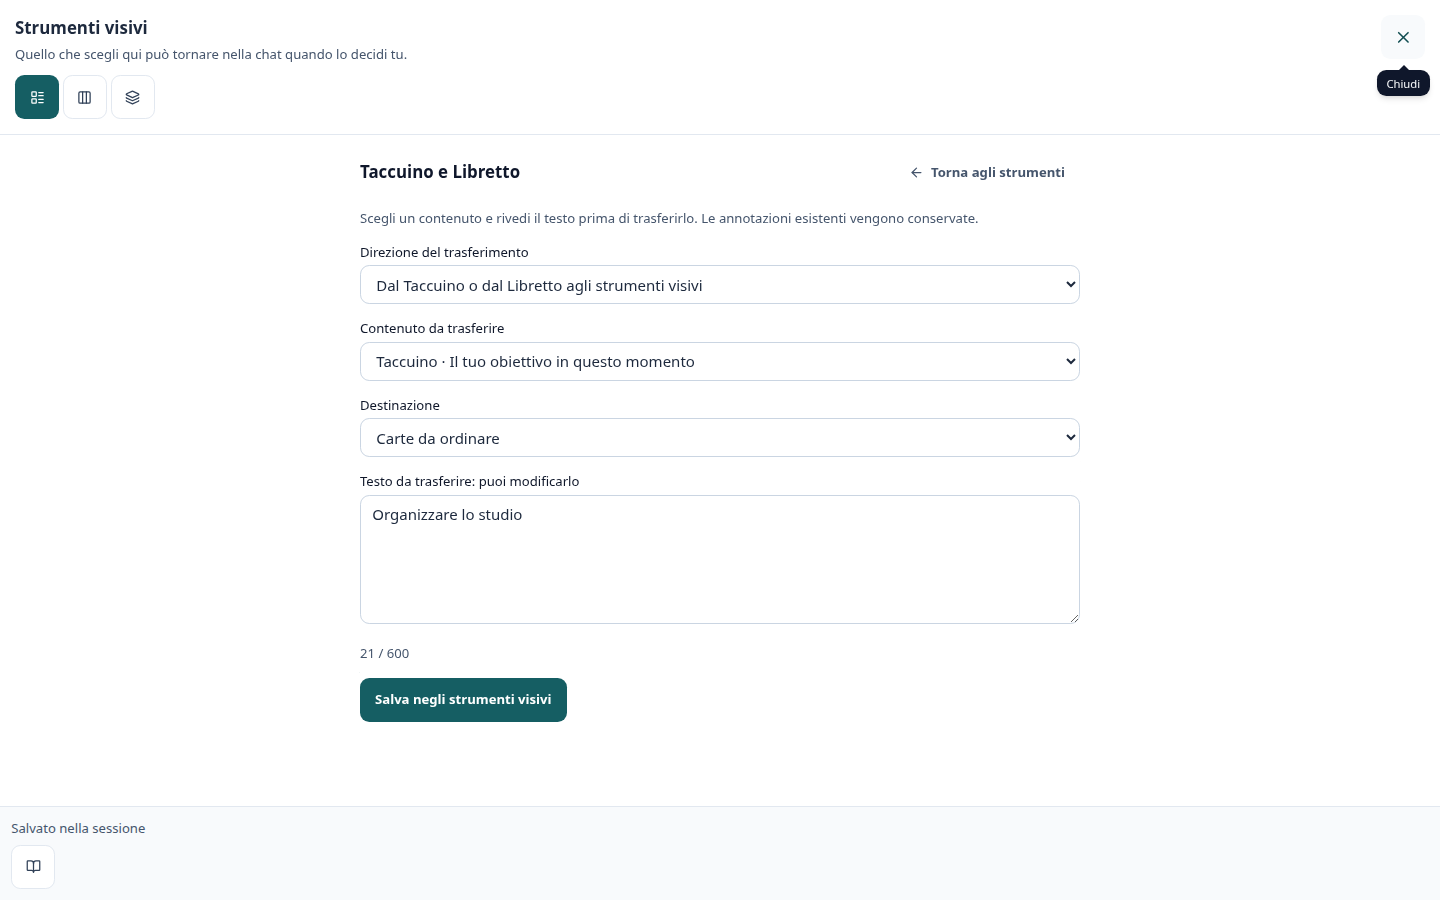
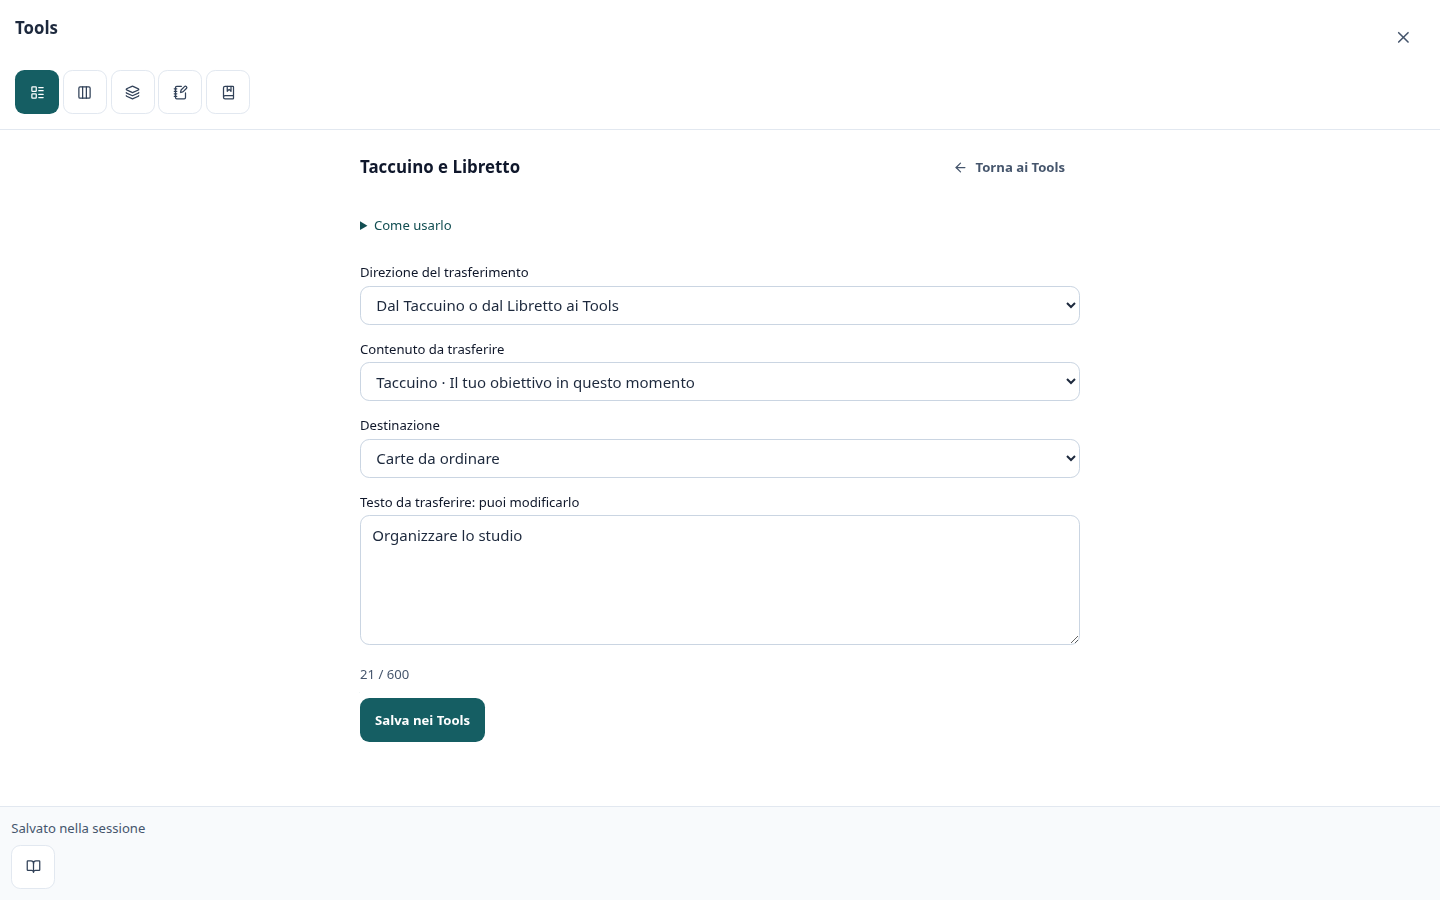
docs: align the guide with the tools window tabs
The guide still described the notebook and the booklet as a separate
overlay opened from a book icon. It now describes the five tabs of the
tools window, in all six languages, and the screenshots are recaptured.
The capture moves the pointer off the close button, which would
otherwise leave its tooltip in the shot.

diff --git a/frontend/src/lib/i18n.ts b/frontend/src/lib/i18n.ts
@@ -1139,7 +1139,7 @@ const it: Dict = {
     'guide.section9.title': 'Scheda strumento',
     'guide.section9.body': 'Ogni strumento ha una pagina di dettaglio con cosa esplora, come si svolge, i dati necessari e, quando disponibile, un link diretto per compilare il questionario online.',
     'guide.chat.tools.title': "Tools, Taccuino e Libretto",
-    'guide.chat.tools.body': "Dal menu scegli “Tools” per aprire azioni, confronto e carte. L’icona del libro apre “Taccuino e Libretto”: scegli la direzione, il contenuto e la destinazione, poi rivedi il testo e conferma. Puoi aggiungere alle annotazioni esistenti o creare una carta, un’azione o un’alternativa a partire da una nota. Il Libretto propone le schede dello strumento della sessione. Nulla viene trasferito automaticamente.",
+    'guide.chat.tools.body': "Dal menu scegli “Tools” per aprire la finestra degli strumenti: cinque schede in fila — azioni, confronto, carte, Taccuino e Libretto — e si passa dall’una all’altra senza uscire dalla conversazione. In basso l’icona del libro apre il trasferimento fra Taccuino/Libretto e Tools: scegli la direzione, il contenuto e la destinazione, poi rivedi il testo e conferma. Puoi aggiungere alle annotazioni esistenti o creare una carta, un’azione o un’alternativa a partire da una nota. Il Libretto propone le schede dello strumento della sessione. Nulla viene trasferito automaticamente.",
     'guide.chat.toolsAlt': "Trasferimento selettivo dal Taccuino ai Tools, con direzione, contenuto, destinazione e testo modificabile.",
     'guide.chat.toolsCaption': "Esempio con dati dimostrativi: un obiettivo del Taccuino può diventare una carta. Il trasferimento avviene solo dopo la conferma.",
 };
@@ -2242,7 +2242,7 @@ const en: Dict = {
     'guide.section9.title': 'Tool overview',
     'guide.section9.body': 'Every instrument has a detail page with what it explores, how it works, the required data and \u2014 when available \u2014 a direct link to complete the questionnaire online.',
     'guide.chat.tools.title': "Tools, Notebook and Booklet",
-    'guide.chat.tools.body': "Choose “Tools” in the menu to open actions, comparisons and cards. The book icon opens “Notebook and Booklet”: choose the direction, content and destination, then review the text and confirm. Add to existing annotations or turn a note into a card, action or alternative. The Booklet offers sheets for the session instrument. Nothing transfers automatically.",
+    'guide.chat.tools.body': "Choose “Tools” in the menu to open the tools window: five tabs in a row — actions, comparisons, cards, Notebook and Booklet — and you move between them without leaving the conversation. At the bottom the book icon opens the transfer between Notebook/Booklet and Tools: choose the direction, content and destination, then review the text and confirm. Add to existing annotations or turn a note into a card, action or alternative. The Booklet offers sheets for the session instrument. Nothing transfers automatically.",
     'guide.chat.toolsAlt': "Selective transfer from the Notebook to Tools, with direction, content, destination and editable text.",
     'guide.chat.toolsCaption': "Example with demonstration data: a Notebook goal can become a card. Transfer happens only after confirmation.",
 };
@@ -3344,7 +3344,7 @@ const es: Dict = {
     'guide.section9.title': 'Ficha del instrumento',
     'guide.section9.body': 'Cada instrumento tiene una p\u00e1gina de detalle con qu\u00e9 explora, c\u00f3mo se desarrolla, los datos necesarios y, cuando est\u00e1 disponible, un enlace directo para completar el cuestionario en l\u00ednea.',
     'guide.chat.tools.title': "Tools, Cuaderno y Cuadernillo",
-    'guide.chat.tools.body': "Elige “Tools” para abrir acciones, comparaciones y tarjetas. El icono del libro abre “Cuaderno y Cuadernillo”: elige dirección, contenido y destino, revisa el texto y confirma. Puedes añadir a las anotaciones existentes o convertir una nota en tarjeta, acción o alternativa. El Cuadernillo ofrece fichas del instrumento de la sesión. No hay transferencias automáticas.",
+    'guide.chat.tools.body': "Elige “Tools” para abrir la ventana de herramientas: cinco pestañas en fila — acciones, comparaciones, tarjetas, Cuaderno y Cuadernillo — y pasas de una a otra sin salir de la conversación. Abajo, el icono del libro abre la transferencia entre Cuaderno/Cuadernillo y Tools: elige dirección, contenido y destino, revisa el texto y confirma. Puedes añadir a las anotaciones existentes o convertir una nota en tarjeta, acción o alternativa. El Cuadernillo ofrece fichas del instrumento de la sesión. No hay transferencias automáticas.",
     'guide.chat.toolsAlt': "Transferencia selectiva del Cuaderno a Tools, con dirección, contenido, destino y texto editable.",
     'guide.chat.toolsCaption': "Ejemplo con datos demostrativos: un objetivo del Cuaderno puede convertirse en tarjeta. Solo se transfiere tras confirmar.",
 };
@@ -4446,7 +4446,7 @@ const fr: Dict = {
     'guide.section9.title': 'Fiche outil',
     'guide.section9.body': 'Chaque instrument poss\u00e8de une page de d\u00e9tail avec ce qu\u2019il explore, son d\u00e9roulement, les donn\u00e9es requises et, quand elle est disponible, un lien direct pour remplir le questionnaire en ligne.',
     'guide.chat.tools.title': "Tools, Carnet et Livret",
-    'guide.chat.tools.body': "Choisissez « Tools » pour ouvrir actions, comparaisons et cartes. L’icône du livre ouvre « Carnet et Livret » : choisissez le sens, le contenu et la destination, puis relisez le texte et confirmez. Ajoutez aux annotations existantes ou transformez une note en carte, action ou alternative. Le Livret propose les fiches de l’instrument de la session. Aucun transfert n’est automatique.",
+    'guide.chat.tools.body': "Choisissez « Tools » pour ouvrir la fenêtre des outils : cinq onglets en ligne — actions, comparaisons, cartes, Carnet et Livret — et vous passez de l’un à l’autre sans quitter la conversation. En bas, l’icône du livre ouvre le transfert entre Carnet/Livret et Tools : choisissez le sens, le contenu et la destination, puis relisez le texte et confirmez. Ajoutez aux annotations existantes ou transformez une note en carte, action ou alternative. Le Livret propose les fiches de l’instrument de la session. Aucun transfert n’est automatique.",
     'guide.chat.toolsAlt': "Transfert sélectif du Carnet vers Tools, avec sens, contenu, destination et texte modifiable.",
     'guide.chat.toolsCaption': "Exemple avec des données de démonstration : un objectif du Carnet peut devenir une carte. Le transfert exige une confirmation.",
 };
@@ -5548,7 +5548,7 @@ const de: Dict = {
     'guide.section9.title': 'Werkzeug\u00fcbersicht',
     'guide.section9.body': 'Jedes Instrument hat eine Detailseite mit dem, was es untersucht, dem Ablauf, den ben\u00f6tigten Daten und \u2013 wenn verf\u00fcgbar \u2013 einem direkten Link zum Online-Fragebogen.',
     'guide.chat.tools.title': "Tools, Notizbuch und Arbeitsheft",
-    'guide.chat.tools.body': "Wähle „Tools“, um Aktionen, Vergleiche und Karten zu öffnen. Das Buchsymbol öffnet „Notizbuch und Arbeitsheft“: Wähle Richtung, Inhalt und Ziel, prüfe den Text und bestätige. Ergänze vorhandene Notizen oder mache aus einer Notiz eine Karte, Aktion oder Alternative. Das Arbeitsheft bietet Einträge zum Instrument der Sitzung an. Nichts wird automatisch übertragen.",
+    'guide.chat.tools.body': "Wähle „Tools“, um das Werkzeugfenster zu öffnen: fünf Reiter nebeneinander — Aktionen, Vergleiche, Karten, Notizbuch und Arbeitsheft — und du wechselst zwischen ihnen, ohne das Gespräch zu verlassen. Unten öffnet das Buchsymbol die Übertragung zwischen Notizbuch/Arbeitsheft und Tools: Wähle Richtung, Inhalt und Ziel, prüfe den Text und bestätige. Ergänze vorhandene Notizen oder mache aus einer Notiz eine Karte, Aktion oder Alternative. Das Arbeitsheft bietet Einträge zum Instrument der Sitzung an. Nichts wird automatisch übertragen.",
     'guide.chat.toolsAlt': "Gezielte Übertragung aus dem Notizbuch in Tools mit Richtung, Inhalt, Ziel und bearbeitbarem Text.",
     'guide.chat.toolsCaption': "Beispiel mit Demonstrationsdaten: Ein Ziel aus dem Notizbuch kann eine Karte werden. Die Übertragung erfolgt erst nach Bestätigung.",
 };
@@ -6650,7 +6650,7 @@ const sv: Dict = {
     'guide.section9.title': 'Verktygs\u00f6versikt',
     'guide.section9.body': 'Varje instrument har en detaljsida med vad det utforskar, hur det g\u00e5r till, vilka data som kr\u00e4vs och \u2013 n\u00e4r det finns \u2013 en direktl\u00e4nk till att fylla i fr\u00e5geformul\u00e4ret online.',
     'guide.chat.tools.title': "Tools, Anteckningsbok och Arbetshäfte",
-    'guide.chat.tools.body': "Välj ”Tools” för att öppna aktiviteter, jämförelser och kort. Bokikonen öppnar ”Anteckningsbok och Arbetshäfte”: välj riktning, innehåll och mål, granska texten och bekräfta. Lägg till i befintliga anteckningar eller gör en anteckning till ett kort, en aktivitet eller ett alternativ. Arbetshäftet visar poster för sessionens instrument. Ingenting överförs automatiskt.",
+    'guide.chat.tools.body': "Välj ”Tools” för att öppna verktygsfönstret: fem flikar i rad — aktiviteter, jämförelser, kort, Anteckningsbok och Arbetshäfte — och du växlar mellan dem utan att lämna samtalet. Längst ned öppnar bokikonen överföringen mellan Anteckningsbok/Arbetshäfte och Tools: välj riktning, innehåll och mål, granska texten och bekräfta. Lägg till i befintliga anteckningar eller gör en anteckning till ett kort, en aktivitet eller ett alternativ. Arbetshäftet visar poster för sessionens instrument. Ingenting överförs automatiskt.",
     'guide.chat.toolsAlt': "Vald överföring från Anteckningsboken till Tools med riktning, innehåll, mål och redigerbar text.",
     'guide.chat.toolsCaption': "Exempel med demonstrationsdata: ett mål i Anteckningsboken kan bli ett kort. Överföringen kräver bekräftelse.",
 };
